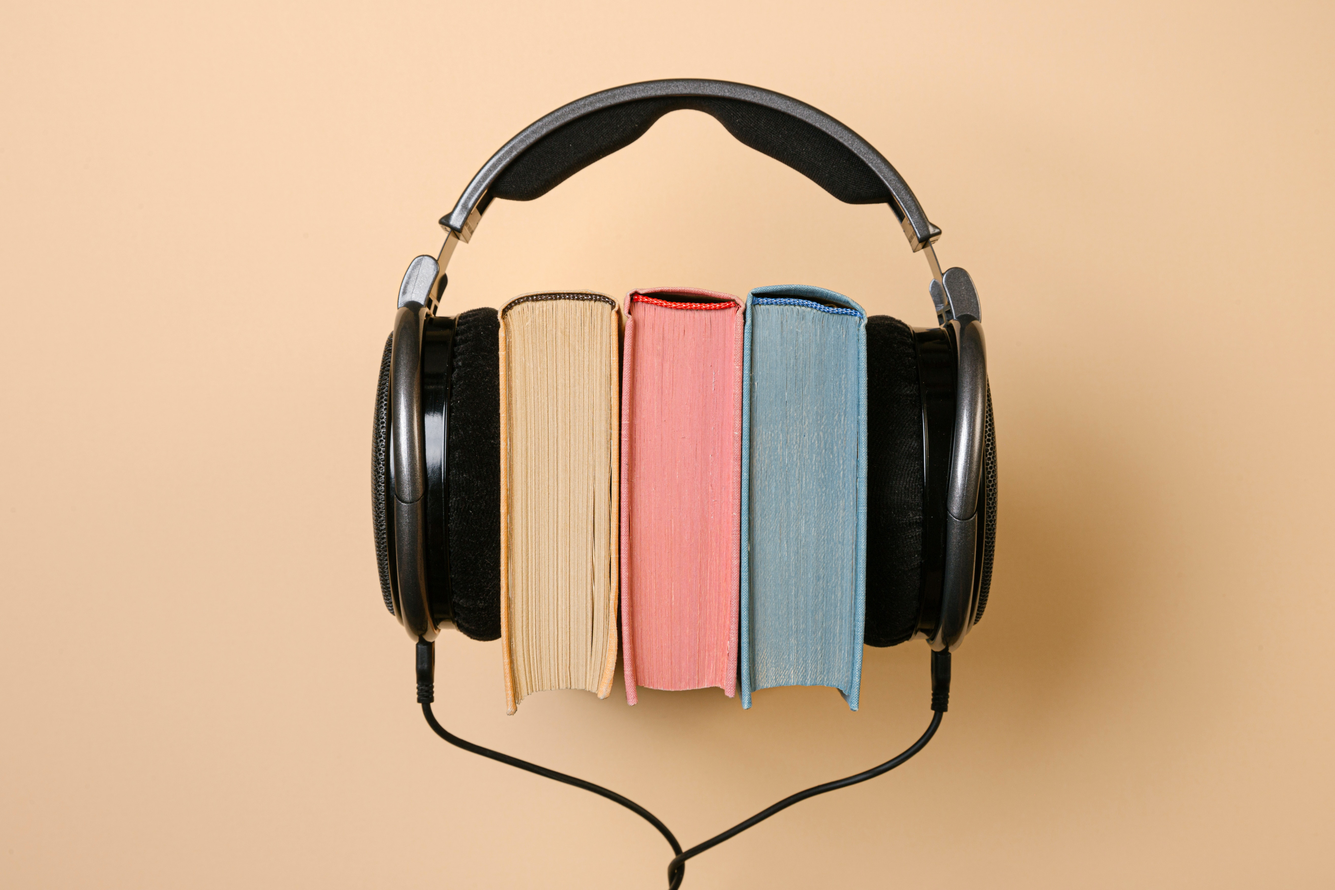
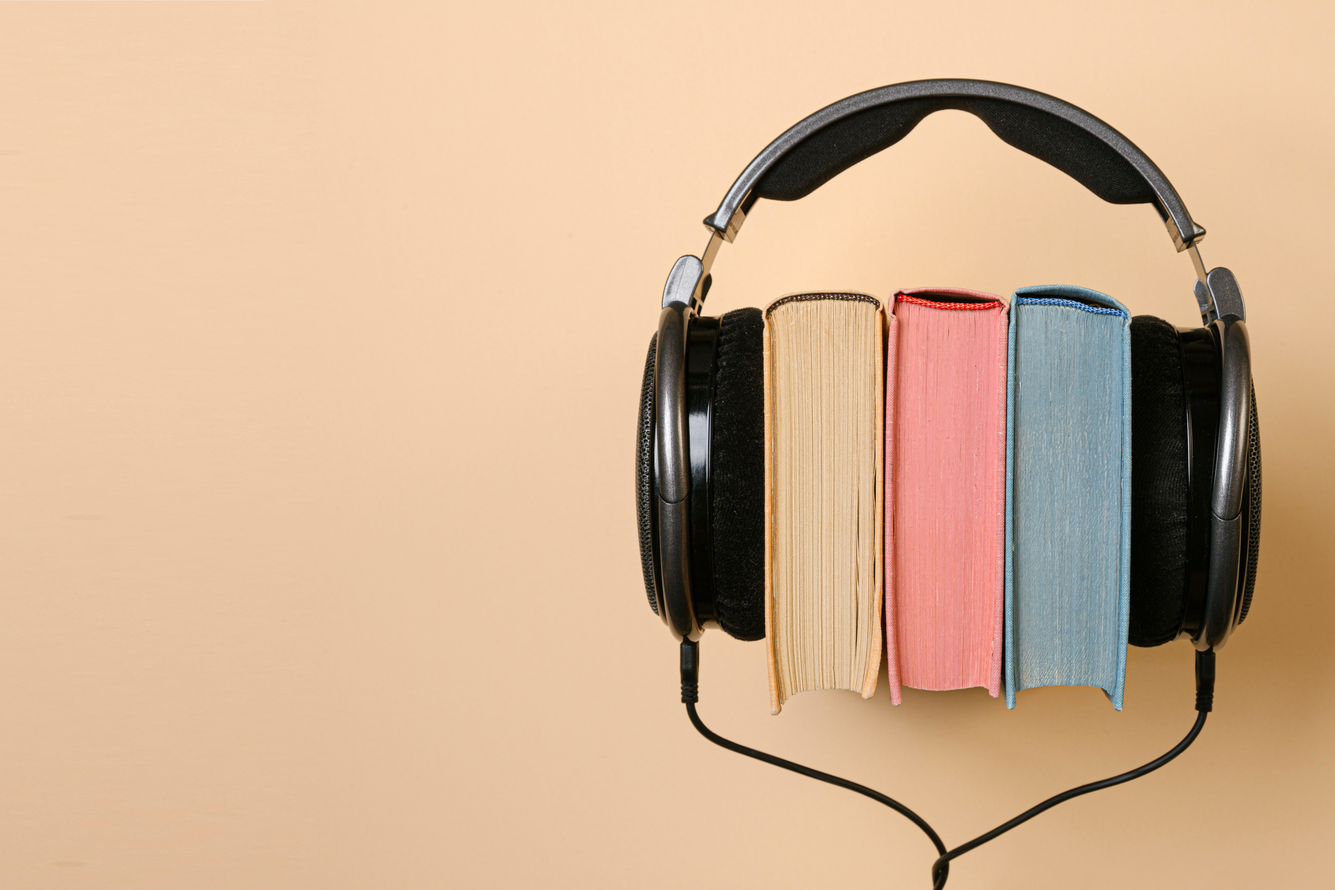
se arreglaron imagenes

diff --git a/public/css/estilo.css b/public/css/estilo.css
@@ -3,24 +3,16 @@
     margin-bottom: 5rem;
 }
 
-#footer {
-    width: 100%;
-    position: absolute;
-    bottom: 0;
-}
-
-.cropped {
-    height: 90vh;
-    width: 100%;
-    overflow: hidden;
-}
-
-.cropped img {
-    margin: -10px 0px 0px -180px;
-}
-
-#carouselExampleControls {
-    position: absolute;
-    top: 4rem;
-    left: 0;
+@media screen and (min-width: 960px) {
+    .cropped {
+        height: 90vh;
+        width: 100%;
+        overflow: hidden;
+    }
+    #img3 {
+        margin: -4vh 0px;
+    }
+    #img1 {
+        margin: -20vh 0px;
+    }
 }

diff --git a/Components/header.php b/Components/header.php
@@ -22,7 +22,7 @@ if(isset($User)) $flag=true;
     <nav class="navbar navbar-expand-lg navbar-light bg-light">
 
         <div class="container">
-            <a class="navbar-brand" href="#">Navbar</a>
+            <a class="navbar-brand" href="/grupo3/">Navbar</a>
             <button class="navbar-toggler" type="button" data-toggle="collapse" data-target="#navbarSupportedContent" aria-controls="navbarSupportedContent" aria-expanded="false" aria-label="Toggle navigation">
         <span class="navbar-toggler-icon"></span>
       </button>
@@ -31,7 +31,7 @@ if(isset($User)) $flag=true;
 
                 <ul class="navbar-nav mr-auto">
                     <li class="nav-item">
-                        <a class="nav-link ml-lg-3" href="#">Inicio <span class="sr-only">(current)</span></a>
+                        <a class="nav-link ml-lg-3" href="/grupo3/">Inicio <span class="sr-only">(current)</span></a>
                     </li>
 
                     <li class="nav-item dropdown ml-lg-3">
@@ -53,8 +53,9 @@ if(isset($User)) $flag=true;
                     <input class="form-control mr-sm-2 " type="search" placeholder="Search" aria-label="Search">
                     <button class="btn btn-outline-success my-2 my-sm-0" type="submit">Search</button>
                 </form>');?>
-                <div class="my-2 my-lg-o ml-4"><?php if($flag) echo 'Hola, ' . $User;else echo '<a id="registerA"  class="btn btn-outline-primary ml-4"href="/Register.php">Registarse</a> <a class="btn btn-outline-secondary" href="login.php">Iniciar Sesion</a>' ?></div>
+                <div class="my-2 my-lg-o ml-lg-4"><?php if($flag) echo 'Hola, ' . $User;else echo '<a id="registerA"  class="btn btn-outline-primary  mr-2"href="/Register.php">Registarse</a> 
+                 <a class="btn btn-outline-secondary" href="login.php">Iniciar Sesion</a>' ?></div>
             </div>
         </div>
     </nav>
-    <div class="body container">
+    

diff --git a/index.php b/index.php
@@ -15,14 +15,29 @@ require "Components/header.php";
 
 <div id="carouselExampleControls" class="carousel slide" data-ride="carousel">
   <div class="carousel-inner">
-    <div class="carousel-item active">
-      <img src="public/imagenes/pexels-stas-knop-5939401.jpg" class="d-block w-100 cropped " alt="...">
+    
+    
+   
+    <div class="carousel-item cropped ">
+      <img id="img1" src="public/imagenes/pexels-budgeron-bach-5157178.jpg" class="d-block w-100 " alt="...">
+      <div class="carousel-caption d-none d-md-block">
+        <h2>2 slide label</h2>
+        <p>Nulla vitae elit libero, a pharetra augue mollis interdum.</p>
+      </div>
     </div>
-    <div class="carousel-item">
-      <img src="public/imagenes/pexels-budgeron-bach-5157178.jpg" class="d-block w-100 cropped " alt="...">
+    <div class="carousel-item cropped " >
+      <img id="img2" src="public/imagenes/pexels-brett-sayles-2479312.jpg" class="d-block w-100 " alt="...">
+      <div class="carousel-caption d-none d-md-block">
+        <h2>First slide label</h2>
+        <p>Nulla vitae elit libero, a pharetra augue mollis interdum.</p>
+      </div>
     </div>
-    <div class="carousel-item">
-      <img src="public/imagenes/pexels-brett-sayles-2479312.jpg" class="d-block w-100 cropped " alt="...">
+    <div class="carousel-item active cropped ">
+      <img id="img3" src="public/imagenes/pexels-stas-knop-5939401.jpg" class="d-block w-100 " alt="...">
+      <div class="carousel-caption d-none d-md-block">
+        <h2>3 slide label</h2>
+        <p>Nulla vitae elit libero, a pharetra augue mollis interdum.</p>
+      </div>
     </div>
   </div>
   <a class="carousel-control-prev" href="#carouselExampleControls" role="button" data-slide="prev">
@@ -35,7 +50,7 @@ require "Components/header.php";
   </a>
 </div>
 
-
+<div class="body container">
 <!-- footer -->
 <?php 
 echo "<p>";

diff --git a/Components/footer.php b/Components/footer.php
@@ -1,5 +1,10 @@
 </div>
-<nav class="navbar navbar-light bg-light" id="footer">
+
+<script src="https://code.jquery.com/jquery-3.5.1.slim.min.js" integrity="sha384-DfXdz2htPH0lsSSs5nCTpuj/zy4C+OGpamoFVy38MVBnE+IbbVYUew+OrCXaRkfj" crossorigin="anonymous"></script>
+<script src="https://cdn.jsdelivr.net/npm/bootstrap@4.5.3/dist/js/bootstrap.bundle.min.js" integrity="sha384-ho+j7jyWK8fNQe+A12Hb8AhRq26LrZ/JpcUGGOn+Y7RsweNrtN/tE3MoK7ZeZDyx" crossorigin="anonymous"></script>
+</body>
+<footer>
+<nav class="navbar navbar-light bg-light" >
   <div class="container justify-content-center">
     <div><a class="navbar-brand" href="#">Fixed bottom</a></div>
     
@@ -9,7 +14,5 @@
   </div>
   </div>
 </nav>
-<script src="https://code.jquery.com/jquery-3.5.1.slim.min.js" integrity="sha384-DfXdz2htPH0lsSSs5nCTpuj/zy4C+OGpamoFVy38MVBnE+IbbVYUew+OrCXaRkfj" crossorigin="anonymous"></script>
-<script src="https://cdn.jsdelivr.net/npm/bootstrap@4.5.3/dist/js/bootstrap.bundle.min.js" integrity="sha384-ho+j7jyWK8fNQe+A12Hb8AhRq26LrZ/JpcUGGOn+Y7RsweNrtN/tE3MoK7ZeZDyx" crossorigin="anonymous"></script>
-</body>
+</footer>
 </html>

diff --git a/explorar.php b/explorar.php
@@ -6,7 +6,7 @@ require "Components/header.php";
 require 'vendor/autoload.php' ;
 use MongoDB\Client as db;
 
-
+echo '<div class="body container">';
 if( isset($_GET['buscar'])&&($_GET['buscar']=="categoria"||$_GET['buscar']=="genero"||$_GET['buscar']=="autor")){
   $target=ucwords(strtolower($_GET['buscar']));
   $uri='mongodb+srv://admin:grupo03TPI@grupo03.wwsio.mongodb.net/grupo03?retryWrites=true&w=majority';

diff --git a/login.php b/login.php
@@ -5,6 +5,7 @@ require "Components/header.php";
 
 require "Utils/Authentication.php";
 ?>
+<div class="body container">
 <div class="container">
 <?php
     $flag = "";
